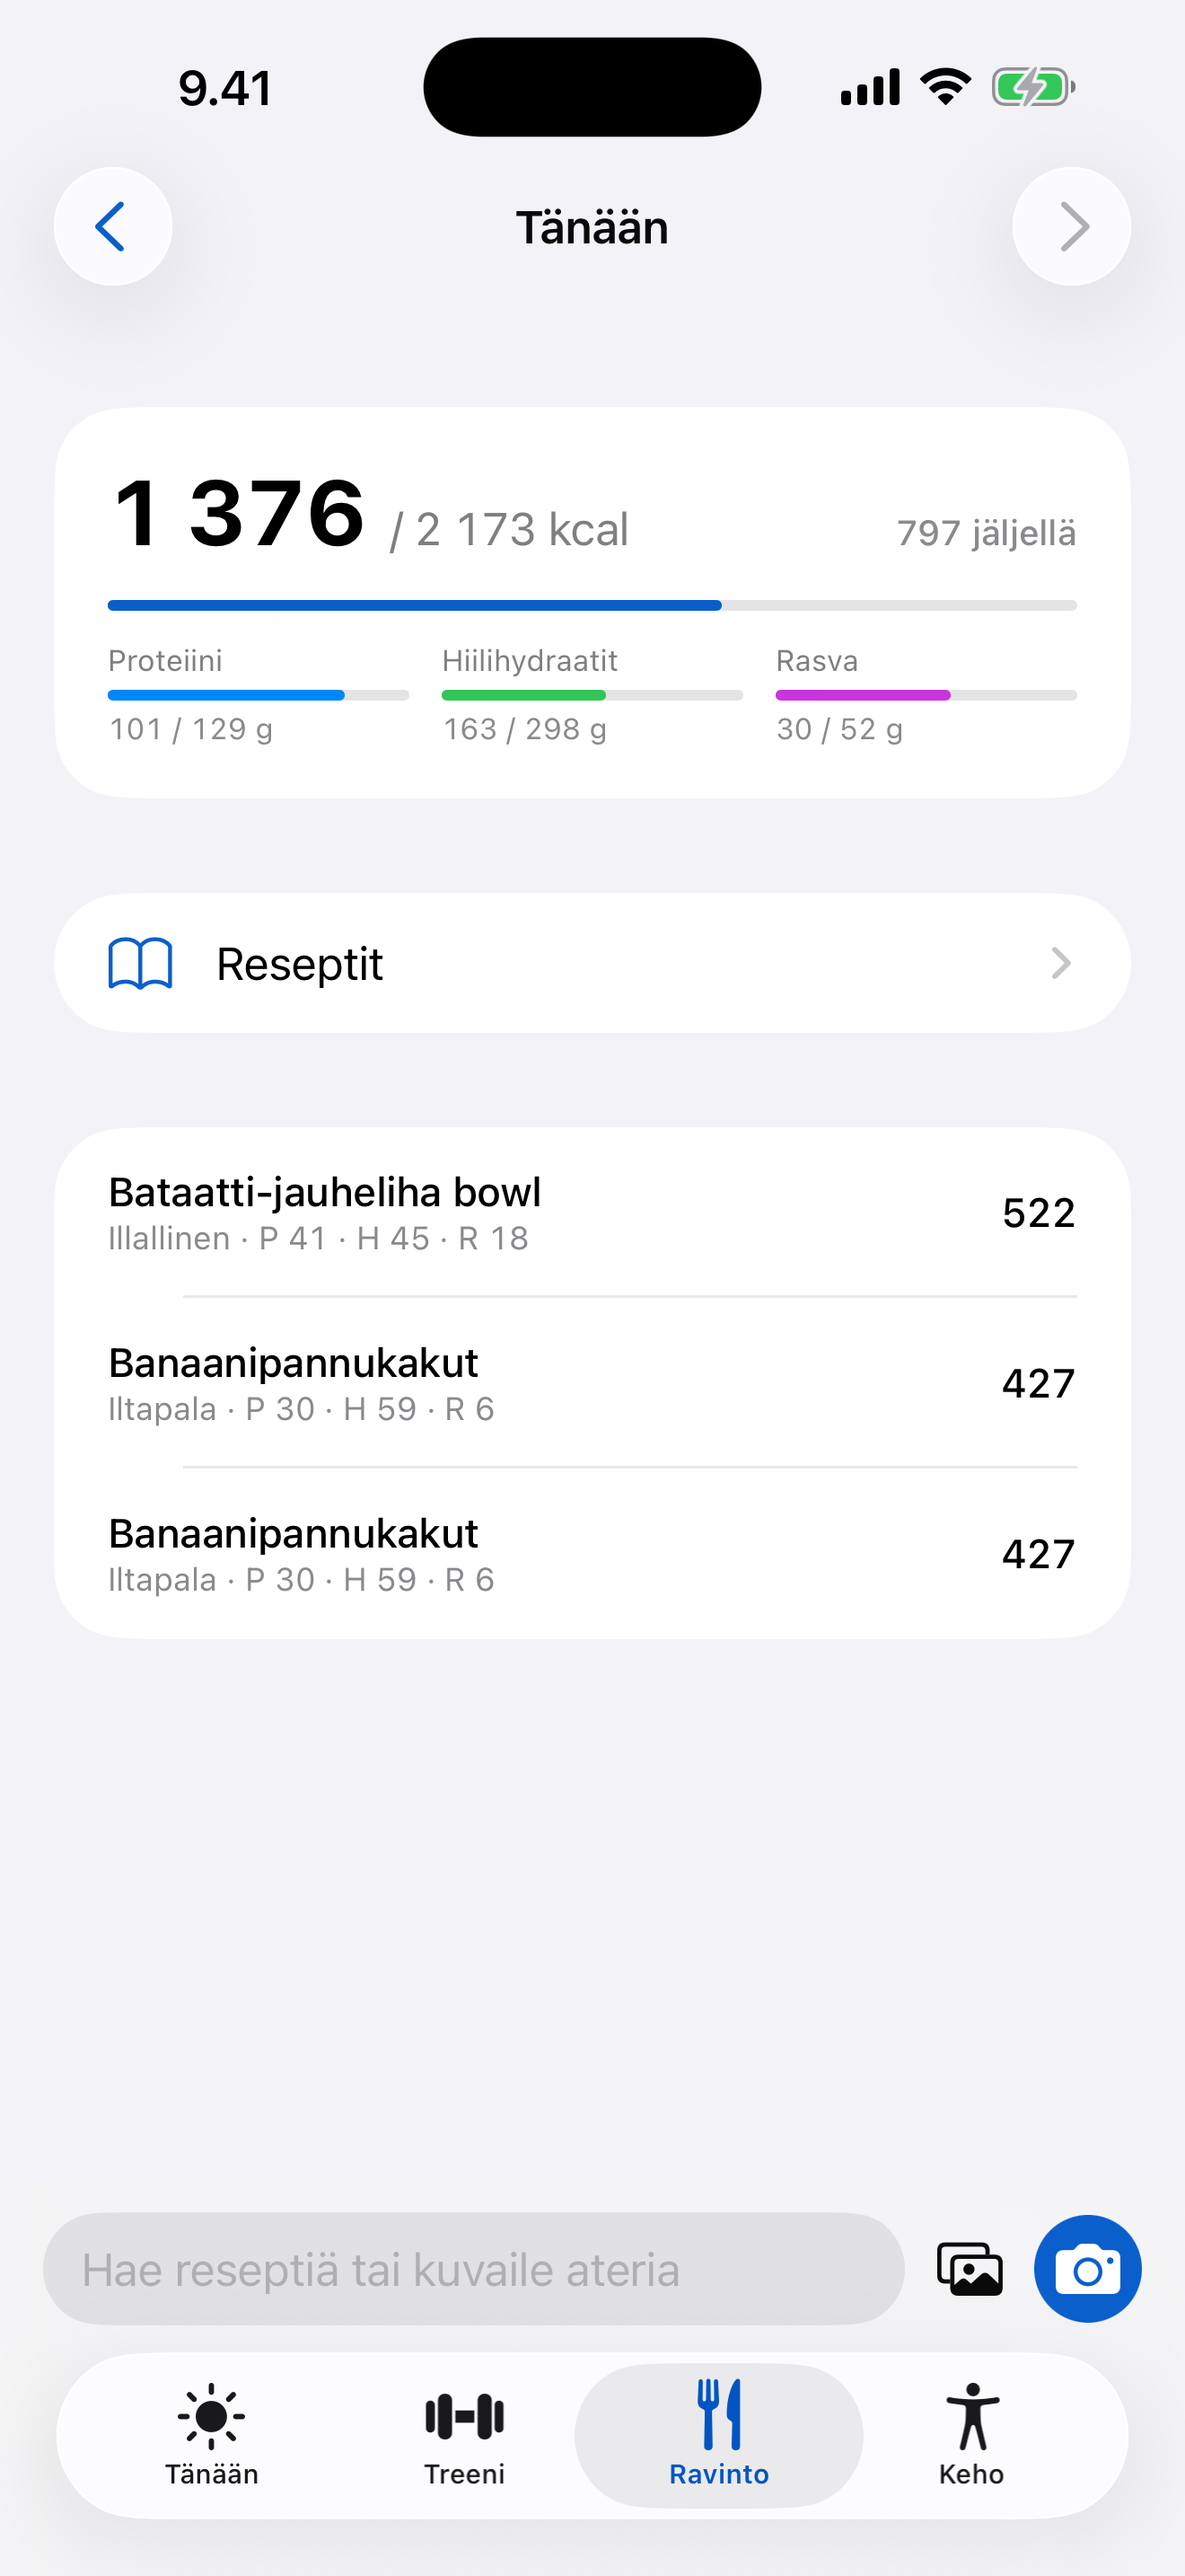
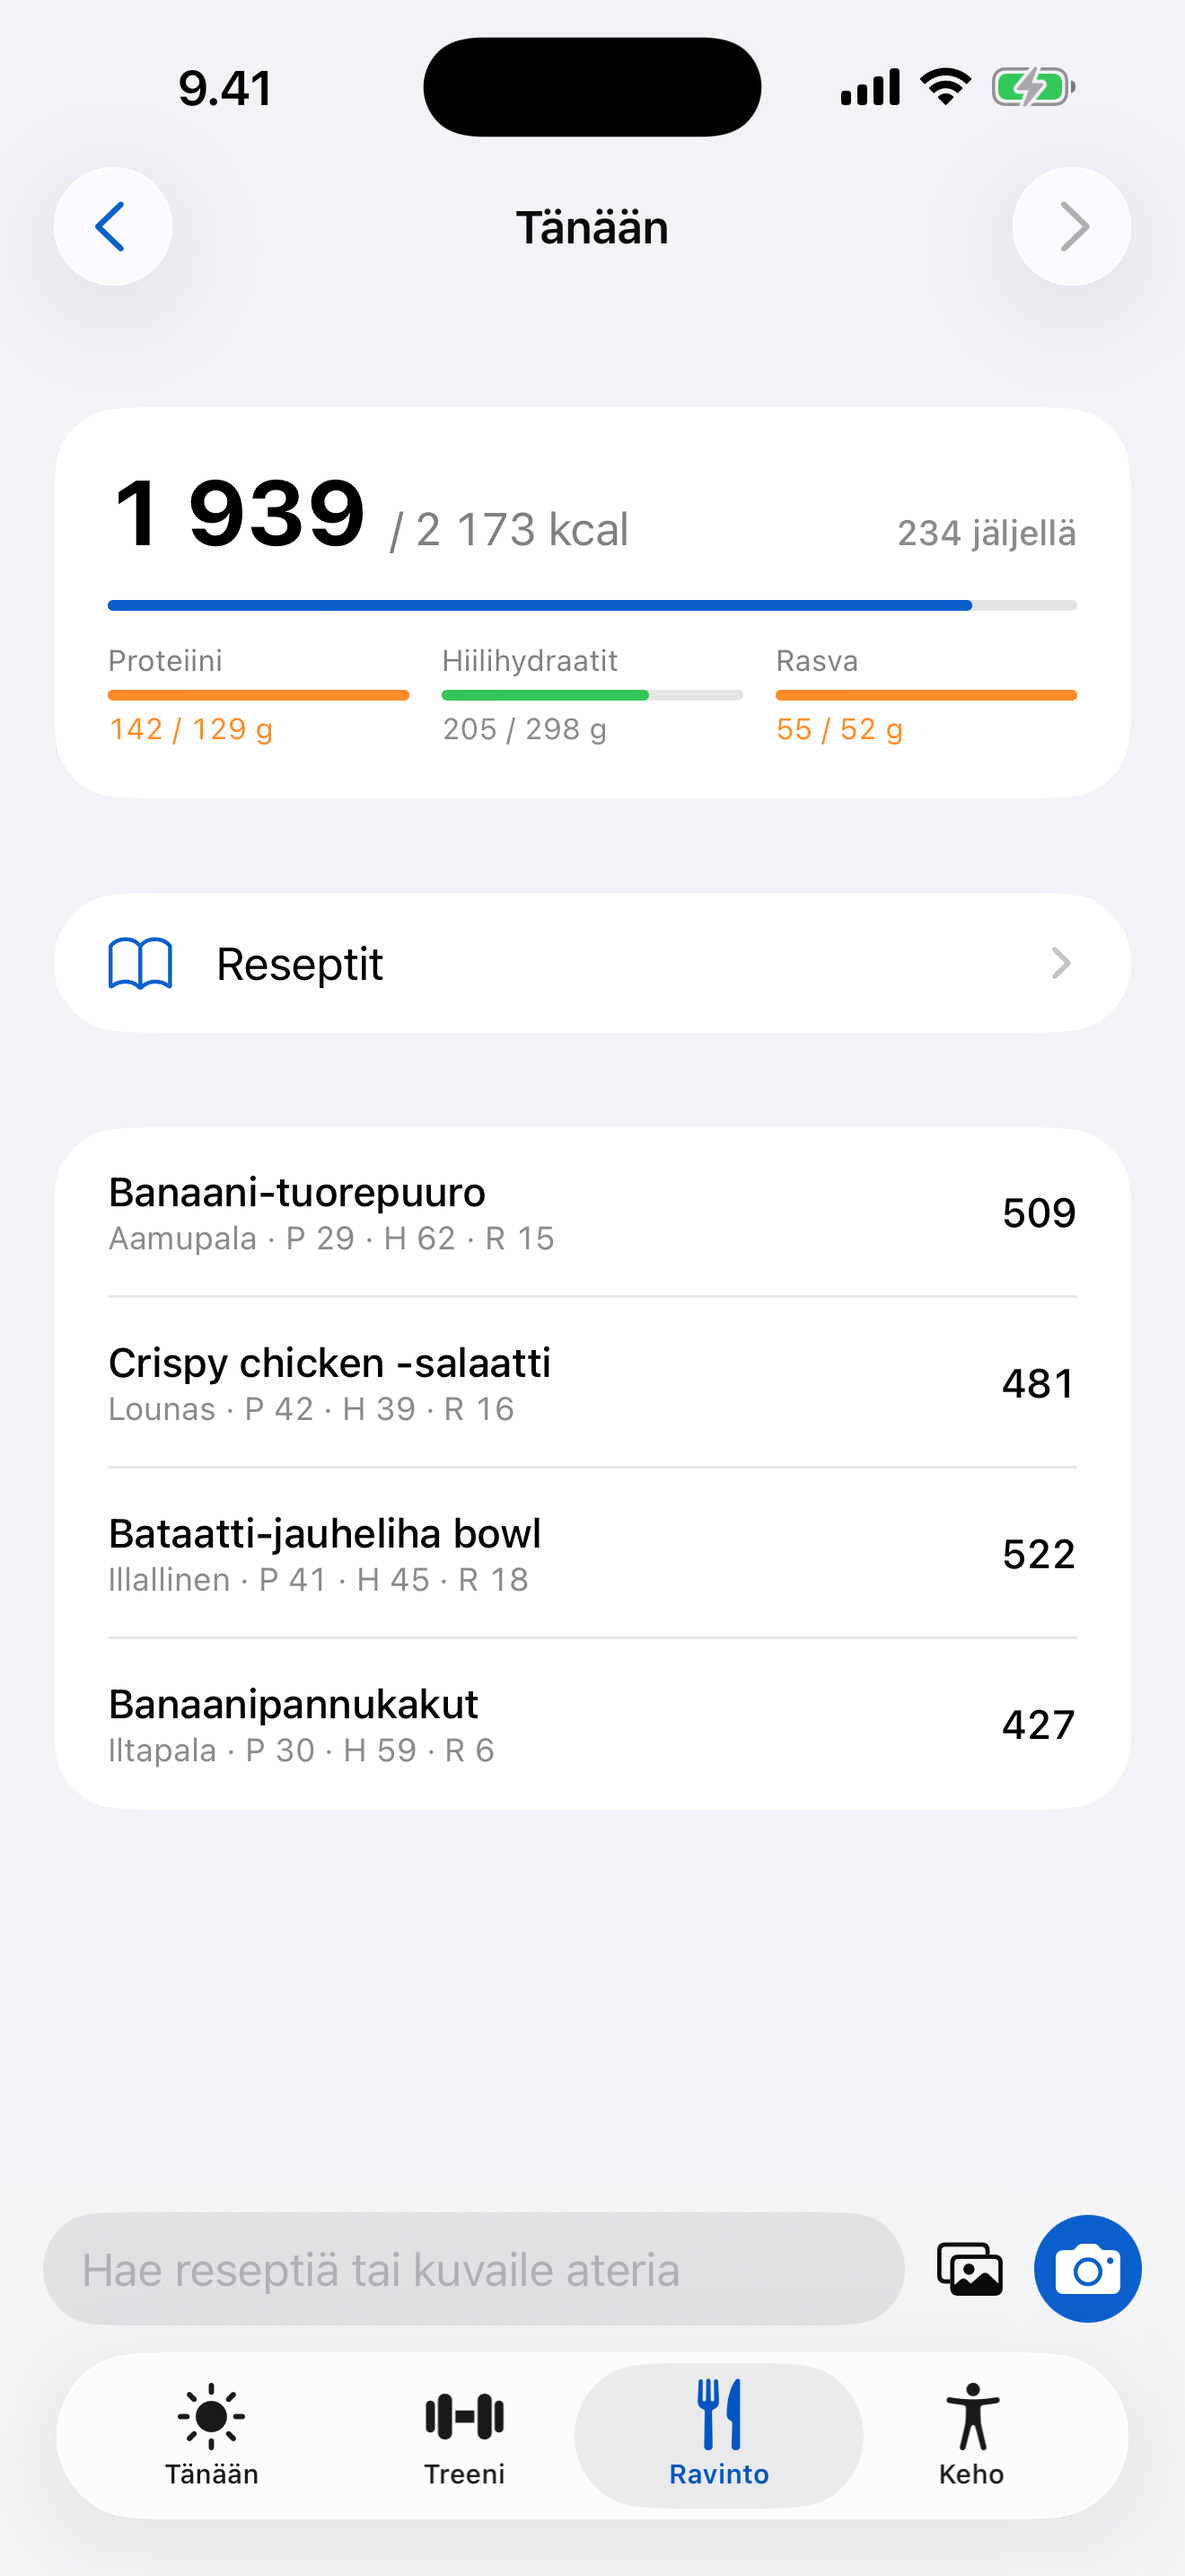
Ravintokuvaan järkevä päivä: aamupala, lounas, illallinen, iltapala
Kuvassa oli sama ateria kahteen kertaan, koska rivin poisto ei mennyt
läpi. Syy ei ollut koodissa: dev-palvelin oli käynnistetty node 26.3.0:lla,
jonka Homebrew poisti päivittäessään 26.7.0:aan, ja Next dev spawnaa
käännöstyöntekijän process.execPath:lla → ENOENT → uuden reitin käännös ei
valmistu koskaan ja pyyntö jää roikkumaan. Ennen päivitystä käännetyt
reitit vastasivat normaalisti, mikä sai vian näyttämään reittikohtaiselta.
Palvelimen uudelleenkäynnistys korjasi: DELETE vastaa 0,6 sekunnissa.

diff --git a/Distribution/README.md b/Distribution/README.md
@@ -65,15 +65,6 @@ kuvien välillä.
 xcrun simctl status_bar booted override --time "9:41" --batteryState charged --batteryLevel 100 --cellularMode active --cellularBars 4 --wifiMode active --wifiBars 3 --dataNetwork wifi
 ```
 
-## Kesken
-
-- [ ] **Ravinto-kuvan päivä.** `03-ravinto.png` näyttää saman aterian kahteen
-      kertaan (Banaanipannukakut ×2), koska rivin poisto ei mene läpi:
-      `DELETE /api/day-meal-plans/[entryId]` jää vastaamatta dev-palvelimella
-      (todennettu curlilla, 60 s ilman vastausta, muut reitit vastaavat heti).
-      Kun poisto toimii, päivälle kirjataan aamupala ja lounas kirjastosta ja
-      kuva otetaan uudelleen.
-
 ## Vielä täyttämättä App Store Connectissa
 
 - [ ] **Demotunnukset** `review_notes.txt`:n alkuun ja ASC:n App Review
